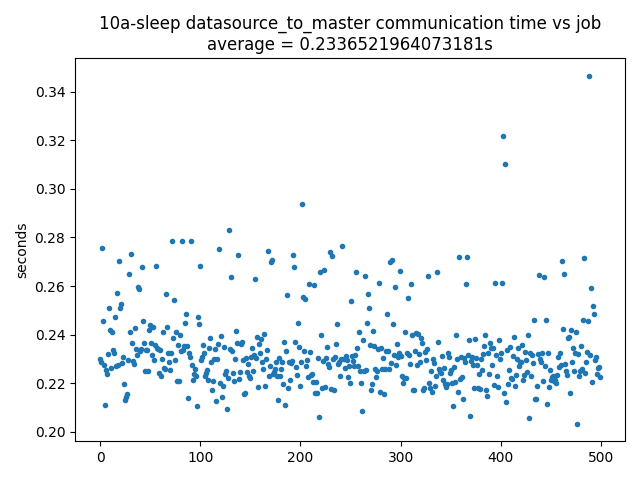
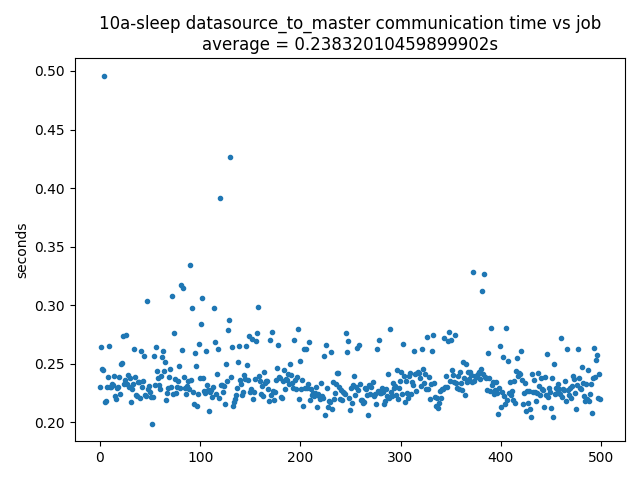
add README.txt

diff --git a/app_specific_files/demo/ccdag.py b/app_specific_files/demo/ccdag.py
@@ -1,17 +1,17 @@
 #!/usr/bin/env python
 # encoding: utf-8
-JUPITER_CONFIG_INI_PATH = '/jupiter/build/jupiter_config.ini'
-#JUPITER_CONFIG_INI_PATH = '../../jupiter_config.ini'
-CODING_PART1 = 0
+JUPITER_CONFIG_INI_PATH = '/jupiter/build/jupiter_config.ini' #docker
+#JUPITER_CONFIG_INI_PATH = '../../jupiter_config.ini' # local
+CODING_PART1 = 1
 CODING_PART2 = 0
-EXP_NAME = 'sleep'
-EXP_ID = 'a'
-SLEEP_TIME = 30 #30
-MASTER_POLL_INTERVAL = 7 
-RESNET_POLL_INTERVAL = 2
-MASTER_TO_RESNET_TIME = 38
+EXP_NAME = 'nosleep'
+EXP_ID = 'b'
+SLEEP_TIME = 5 #0 or 5
+MASTER_POLL_INTERVAL = 2 
+RESNET_POLL_INTERVAL = 1
+MASTER_TO_RESNET_TIME = 10
 STRAGGLER_THRESHOLD = 0
-RESNETS_THRESHOLD = 1
+RESNETS_THRESHOLD = 1 #1 or 3
 STREAM_INTERVAL = 10
 NUM_IMAGES = 100
 NUM_CLASS = 5
